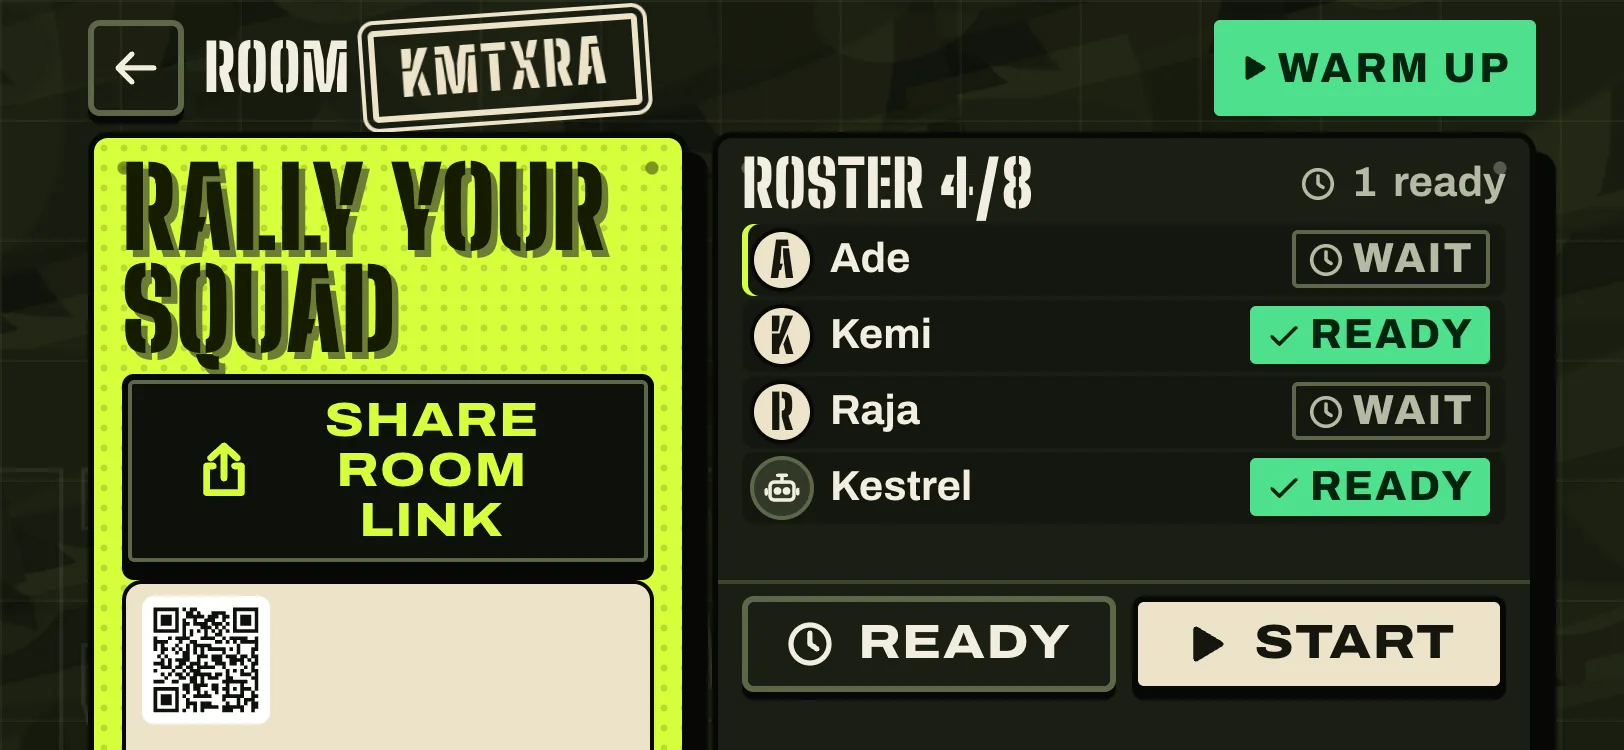
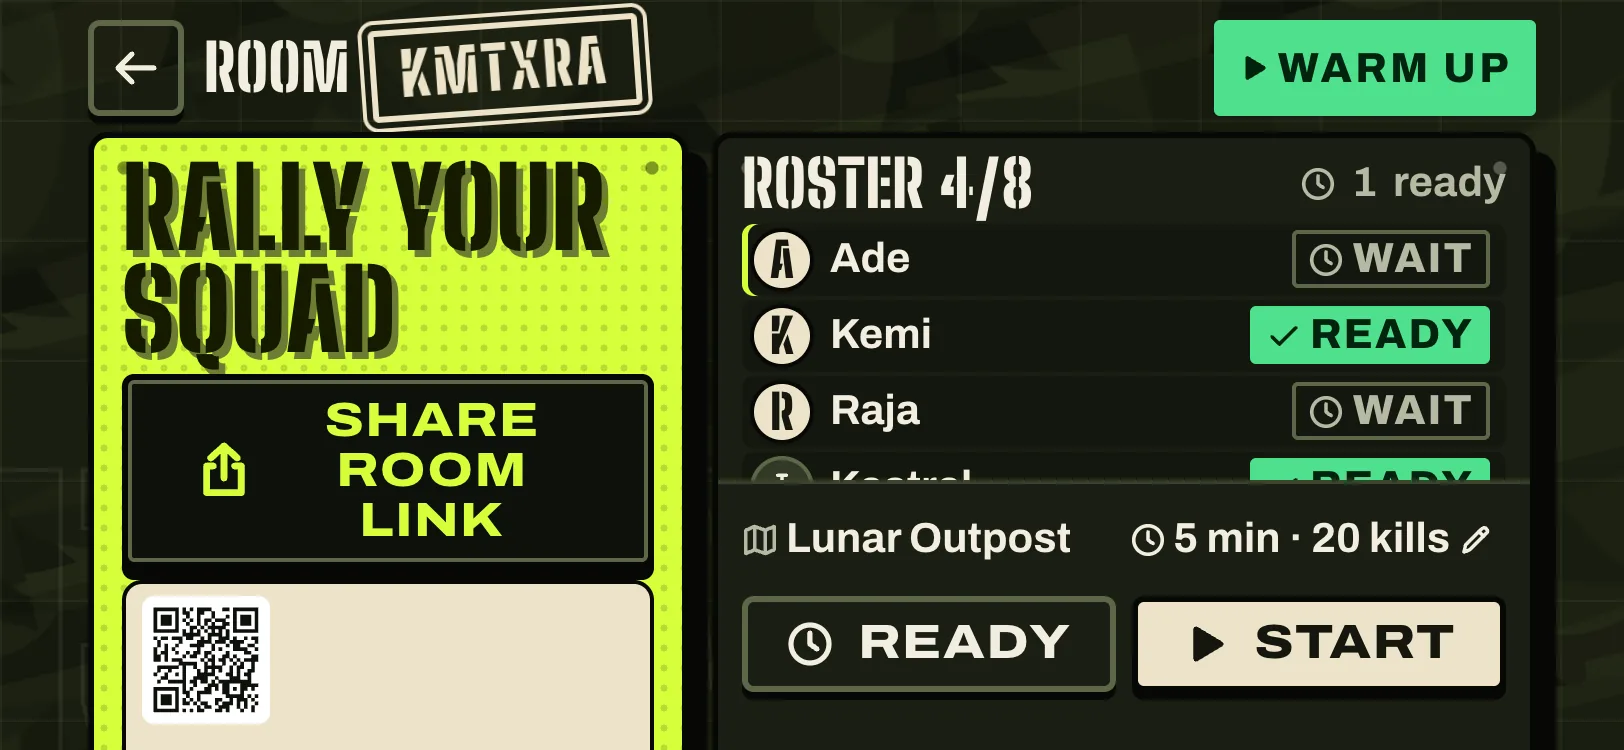
Snapshot: the phone lobby and Home fit at large text

Changed region(s): [[0.4618, 0.6133, 0.9236, 0.736], [0.431, 0.7667, 0.9544, 0.7973], [0.0924, 0.7973, 0.1847, 0.9507]]

diff --git a/apps/web/src/shell/screens/phone/PhoneLobby.tsx b/apps/web/src/shell/screens/phone/PhoneLobby.tsx
@@ -234,28 +234,31 @@ export function PhoneLobby({ lobby, tips = null }: { lobby: LobbyView; tips?: Bi
                 <Row key={p.id} p={p} i={i + 2} />
               ))}
             </ol>
-            <div className="pm-mission">
-              <span>
-                <Icon name="map" size="sm" />
-                <b data-bind="lobby.map.name">{lobby.mapName}</b>
-              </span>
-              <button type="button" className="pm-rules m-p8" onClick={() => setRules(true)}>
-                <Icon name="clock" size="sm" />
-                {minutesLabel(lobby.timeLimit)} · {killsLabel(lobby.killLimit)}
-                <Icon name={host ? 'edit' : 'chev-right'} size="sm" />
-              </button>
-            </div>
-            <div className="pm-bar">
-              <button type="button" className={`btn btn--sm m-p8 ${lobby.ready ? 'btn--ghost is-ready' : 'btn--ghost'}`} aria-pressed={lobby.ready} onClick={blurAfter(() => online?.setReady(!lobby.ready))}>
-                <Icon name={lobby.ready ? 'check' : 'clock'} />
-                Ready
-              </button>
-              {host && (
-                <button type="button" className="btn btn--paper btn--sm m-p8" disabled={!enough} title={enough ? 'Start the countdown now' : `Needs ${lobby.minPlayers} players`} onClick={blurAfter(() => online?.startMatch())}>
-                  <Icon name="play" />
-                  Start
+            {/* the match rules and Ready/Start: one footer, so at large text both stay in view (phone.css) */}
+            <div className="pm-roster__foot">
+              <div className="pm-mission">
+                <span>
+                  <Icon name="map" size="sm" />
+                  <b data-bind="lobby.map.name">{lobby.mapName}</b>
+                </span>
+                <button type="button" className="pm-rules m-p8" onClick={() => setRules(true)}>
+                  <Icon name="clock" size="sm" />
+                  {minutesLabel(lobby.timeLimit)} · {killsLabel(lobby.killLimit)}
+                  <Icon name={host ? 'edit' : 'chev-right'} size="sm" />
                 </button>
-              )}
+              </div>
+              <div className="pm-bar">
+                <button type="button" className={`btn btn--sm m-p8 ${lobby.ready ? 'btn--ghost is-ready' : 'btn--ghost'}`} aria-pressed={lobby.ready} onClick={blurAfter(() => online?.setReady(!lobby.ready))}>
+                  <Icon name={lobby.ready ? 'check' : 'clock'} />
+                  Ready
+                </button>
+                {host && (
+                  <button type="button" className="btn btn--paper btn--sm m-p8" disabled={!enough} title={enough ? 'Start the countdown now' : `Needs ${lobby.minPlayers} players`} onClick={blurAfter(() => online?.startMatch())}>
+                    <Icon name="play" />
+                    Start
+                  </button>
+                )}
+              </div>
             </div>
           </section>
         </div>

diff --git a/apps/web/src/shell/screens/phone/phone.css b/apps/web/src/shell/screens/phone/phone.css
@@ -67,6 +67,7 @@ html.reduce-motion .mf-fit--phone { --m-rise: 0px; }
 .mf-fit--phone .pm-roster { padding: 8px 12px; gap: 5px; }
 .mf-fit--phone .pm-roster ol { gap: 2px; }
 .mf-fit--phone .pm-row { min-height: 32px; }
+.pm-roster__foot { display: contents; }
 .pm-rules { display: inline-flex; align-items: center; gap: 4px; min-height: var(--touch-min); margin: -10px 0; padding: 0 6px; border-radius: var(--r-xs); color: var(--c-text); font-size: var(--fs-14); font-weight: var(--fw-bold); cursor: pointer; }
 .pm-bar .is-ready { color: var(--c-ok); border-color: var(--c-ok); }
 /* the folded lobby: where the match clock goes (empty in warm-up), clear of the swap pill and the menu */
@@ -129,7 +130,12 @@ html.reduce-motion .pm-sheet.is-leaving { animation-name: pm-fade-out; }
 .is-text-lg .pm-score { width: 300px; }
 .is-text-lg .pm-score__row { flex-wrap: wrap; gap: 6px 14px; }
 .is-text-lg .pm > * { flex-shrink: 0; }
-.is-text-lg .pm-roster .pm-bar { position: sticky; bottom: 0; z-index: var(--z-local-2); margin: 0 -12px -8px; padding: 6px 12px 8px; background: var(--c-ink-800); border-top: 2px solid var(--c-line); }
+/* the rules and Ready/Start stick to the screen's bottom together (the roster scrolls under them) */
+.is-text-lg .pm-roster__foot { position: sticky; bottom: 0; z-index: var(--z-local-2); display: flex; flex-direction: column; gap: 4px; margin: auto -12px -8px; padding: 4px 12px 8px; background: var(--c-ink-800); border-top: 2px solid var(--c-line); }
+.is-text-lg .pm-roster__foot .pm-mission { margin-top: 0; padding-top: 0; flex-wrap: nowrap; justify-content: space-between; }
+.is-text-lg .pm-roster__foot .pm-mission > span { min-width: 0; overflow: hidden; }
+.is-text-lg .pm-roster__foot .pm-mission b { overflow: hidden; text-overflow: ellipsis; white-space: nowrap; }
+.is-text-lg .pm-rules { flex: none; margin: 0; }
 .is-text-lg .pm-pause { gap: 6px; padding: 10px 14px; }
 .is-text-lg .pm-pause .eyebrow { display: none; }
 .is-text-lg .pm-pause__t { font-size: calc(36px * var(--pm-head)); }

diff --git a/apps/web/src/shell/screens/menus.css b/apps/web/src/shell/screens/menus.css
@@ -136,6 +136,22 @@ html:is(.mf-short, .mf-big-text) .kit-v2 .home__poster-cta { margin-top: var(--s
 html:is(.mf-short, .mf-big-text) .kit-v2 .home__ticket { min-height: 128px; padding: var(--sp-4) var(--sp-6); }
 html:is(.mf-short, .mf-big-text) .kit-v2 .home__side { padding-top: var(--sp-2); gap: var(--sp-4); }
 html:is(.mf-short, .mf-big-text) .kit-v2 .mf-home__stage { padding-bottom: var(--sp-8); }
+/*
+ * Big text in a laptop's box (1280×720 at 150 %): the screen keeps 1600×900 design pixels, so Home
+ * trims to fit above the sitrep ticker: a shorter top bar and hints row, the poster without its
+ * blurb (Create room says it), shorter tickets; the top bar keeps every tab by showing the chip's
+ * initial only (the nameplate shows the name; screen readers still hear it).
+ */
+html.mf-short.mf-big-text .kit-v2 .home__top { height: 84px; }
+html.mf-short.mf-big-text .kit-v2 .menu-hints { height: 56px; }
+html.mf-short.mf-big-text .kit-v2 .home__poster-sub { display: none; }
+html.mf-short.mf-big-text .kit-v2 .home__play { gap: var(--sp-3); padding-top: 0; }
+html.mf-short.mf-big-text .kit-v2 .home__ticket { min-height: 0; padding: var(--sp-3) var(--sp-5); }
+html.mf-short.mf-big-text .kit-v2 .home__ticket .display { font-size: var(--fs-36); }
+html.mf-short.mf-big-text .kit-v2 .home__ticker { margin-bottom: var(--sp-1); }
+html.mf-narrow.mf-big-text .kit-v2 .home__top .me-chip > b { position: absolute; width: 1px; height: 1px; overflow: hidden; clip-path: inset(50%); white-space: nowrap; }
+html.mf-narrow.mf-big-text .kit-v2 .home__top .me-chip { padding-right: 6px; }
+html.mf-narrow.mf-big-text .kit-v2 .home__top .tab { padding: 0 var(--sp-3); }
 html.mf-narrow .kit-v2 .lobby { grid-template-columns: 440px minmax(0, 1fr) 520px; gap: var(--sp-5); padding: 0; }
 html.mf-short .kit-v2 .lobby { padding-block: 0 var(--sp-3); }
 html:is(.mf-short, .mf-big-text) .kit-v2 .lobby__share { padding: var(--sp-6); gap: var(--sp-3); }

diff --git a/apps/web/src/shell/screens/phone/phone.test.tsx b/apps/web/src/shell/screens/phone/phone.test.tsx
@@ -165,6 +165,12 @@ describe('m-lobby', () => {
     expect(html).toMatch(/data-active-state="guest not-ready link-idle"/);
     expect(html).not.toContain('>Start<');
   });
+
+  it('the rules and Ready/Start share one footer (it sticks to the bottom at large text, so the rules stay on screen)', () => {
+    const html = withCtl(ctl(), <PhoneLobby lobby={lobby(true)} />);
+    const foot = html.slice(html.indexOf('class="pm-roster__foot"'));
+    expect(foot).toMatch(/^class="pm-roster__foot"><div class="pm-mission">[\s\S]*class="pm-rules[\s\S]*class="pm-bar"[\s\S]*Ready[\s\S]*Start/);
+  });
 });
 
 describe('m-pause', () => {
